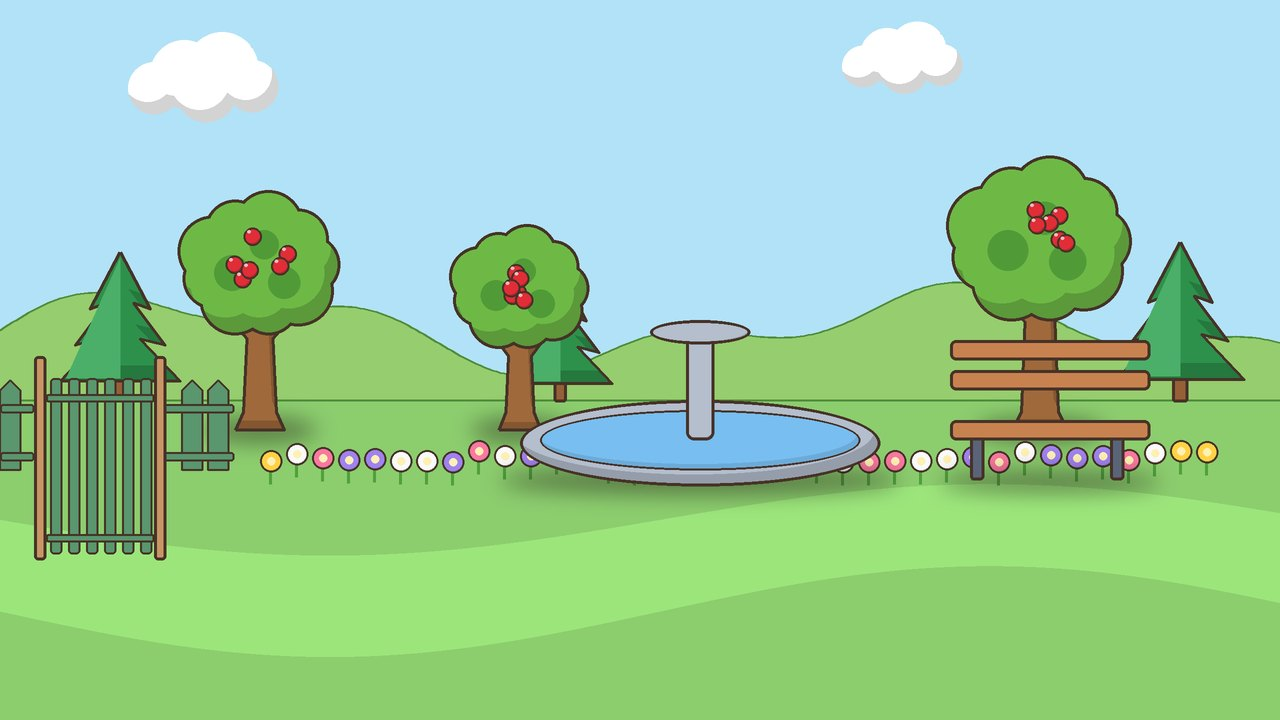
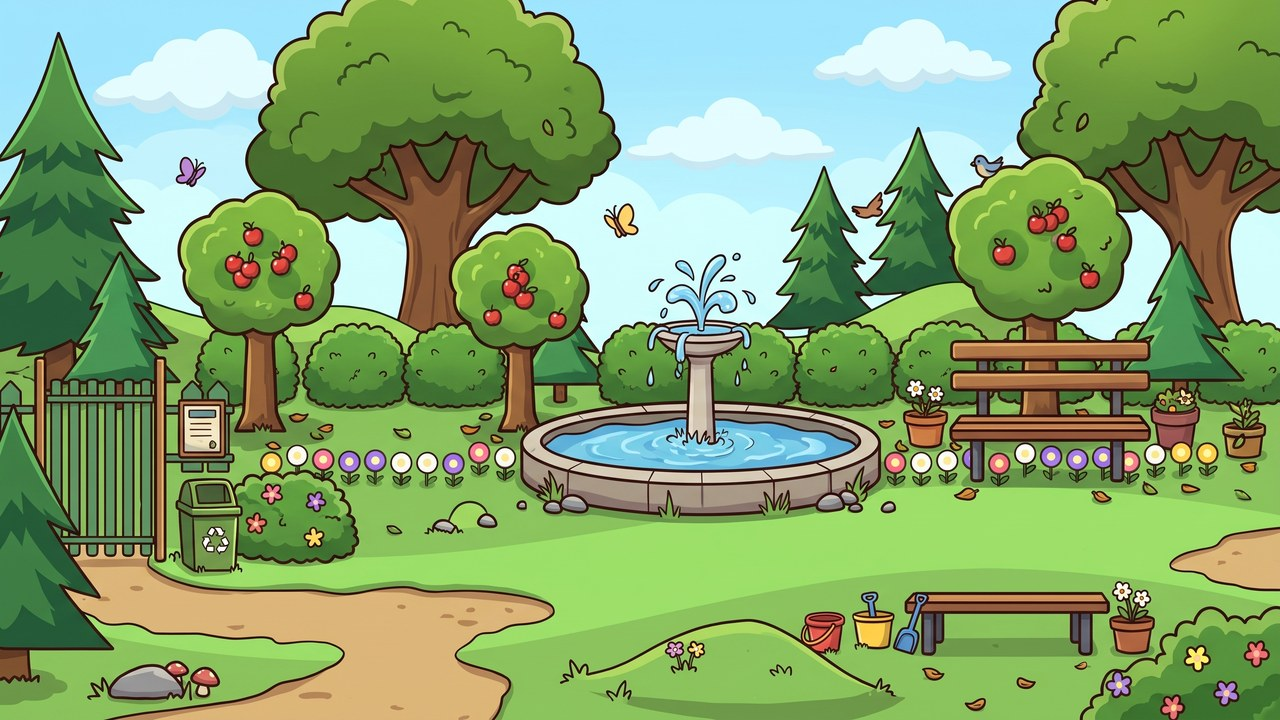
Park: yeni resim, havuzlu çeşme, iki bank (dört oturma yeri)
Claude-Session: https://claude.ai/code/session_01FSkVF6b9FMUcpnurV8yuFZ

diff --git a/js/veri.js b/js/veri.js
@@ -396,17 +396,23 @@ window.OYUN_VERI = {
     // --- Kamusal ve sosyal mekanlar ---
     park: {
       ad: "Park", simge: "park",
-      resim: "cizimler/mekan/park.jpg", zemin: ZEMIN_ACIK, giris: { x: 270, y: 590 },
-      kapilar: [{ ...BAHCE_KAPI_SOL, hedef: "dunya", yer: "park" }],
+      resim: "cizimler/mekan/park.jpg",
+      zemin: { ust: 510, alt: 705, sol: 60, sag: 1220 },
+      giris: { x: 250, y: 600 },
+      kapilar: [{ x: 35, y: 350, w: 135, h: 215, hedef: "dunya", yer: "park" }],
       calisan: {
-        meslek: "bahcivan", x: 380, y: 500,
+        meslek: "bahcivan", x: 420, y: 560,
         selam: "Hoş geldiniz! Parkımız bugün çok güzel.",
         sozler: ["Çiçeklere dikkat edelim, koparmayalım.", "Ağaçları her sabah ben suluyorum.", "Fıskiyenin suyu çok serin!", "Çöpleri çöp kutusuna atalım lütfen.", "Bankta oturup dinlenebilirsiniz."],
       },
       noktalar: [
-        { tur: "fiskiye", x: 600, y: 300, w: 200, h: 180, su: { x: 700, y: 324 }, acik: true },
-        { tur: "otur", x: 950, y: 320, w: 100, h: 160, oturma: { x: 1000, y: 474 } },
-        { tur: "otur", x: 1050, y: 320, w: 100, h: 160, oturma: { x: 1100, y: 474 } },
+        // Havuzlu çeşme. Dokununca su açılır, kapanır.
+        { tur: "fiskiye", x: 520, y: 250, w: 360, h: 265, su: { x: 700, y: 322 }, acik: true },
+        // Arkadaki büyük bank ve öndeki küçük bank: ikişer kişilik.
+        { tur: "otur", x: 950, y: 330, w: 100, h: 150, oturma: { x: 1000, y: 472 } },
+        { tur: "otur", x: 1050, y: 330, w: 100, h: 150, oturma: { x: 1100, y: 472 } },
+        { tur: "otur", x: 905, y: 560, w: 100, h: 100, oturma: { x: 955, y: 648 } },
+        { tur: "otur", x: 1005, y: 560, w: 100, h: 100, oturma: { x: 1055, y: 648 } },
       ],
     },
     oyun: {
